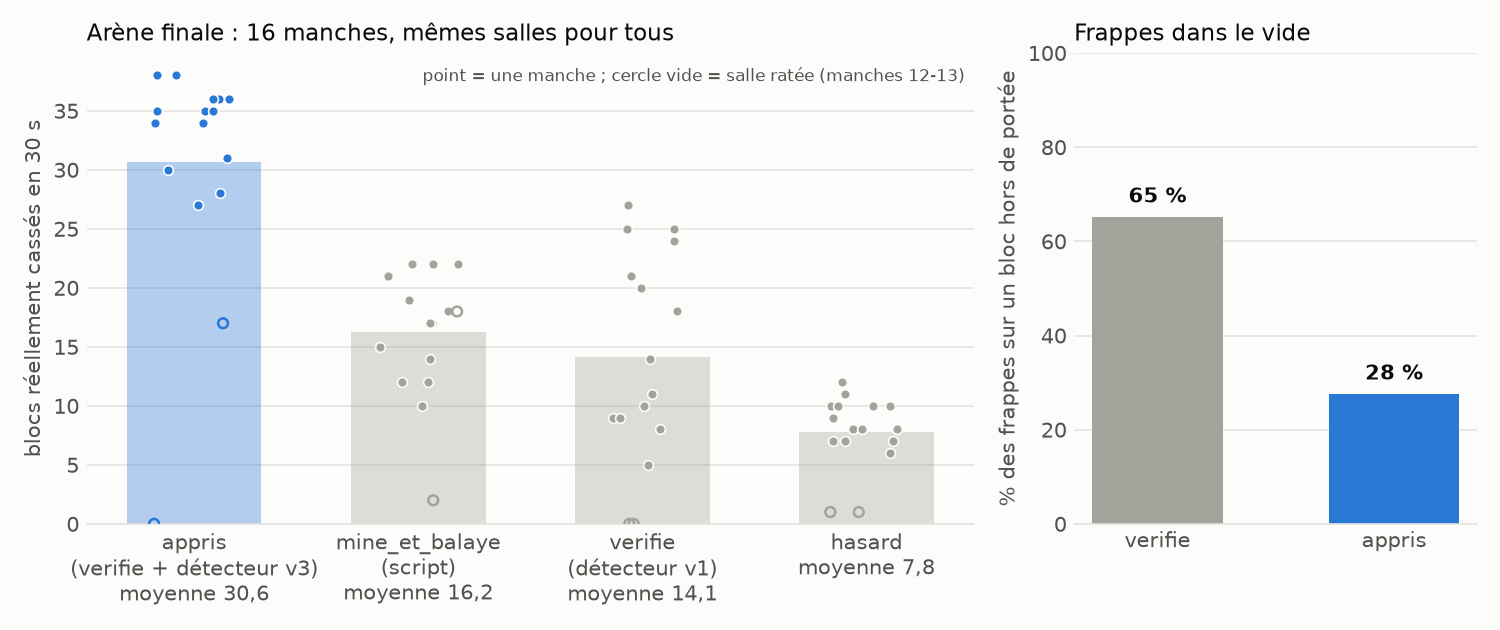
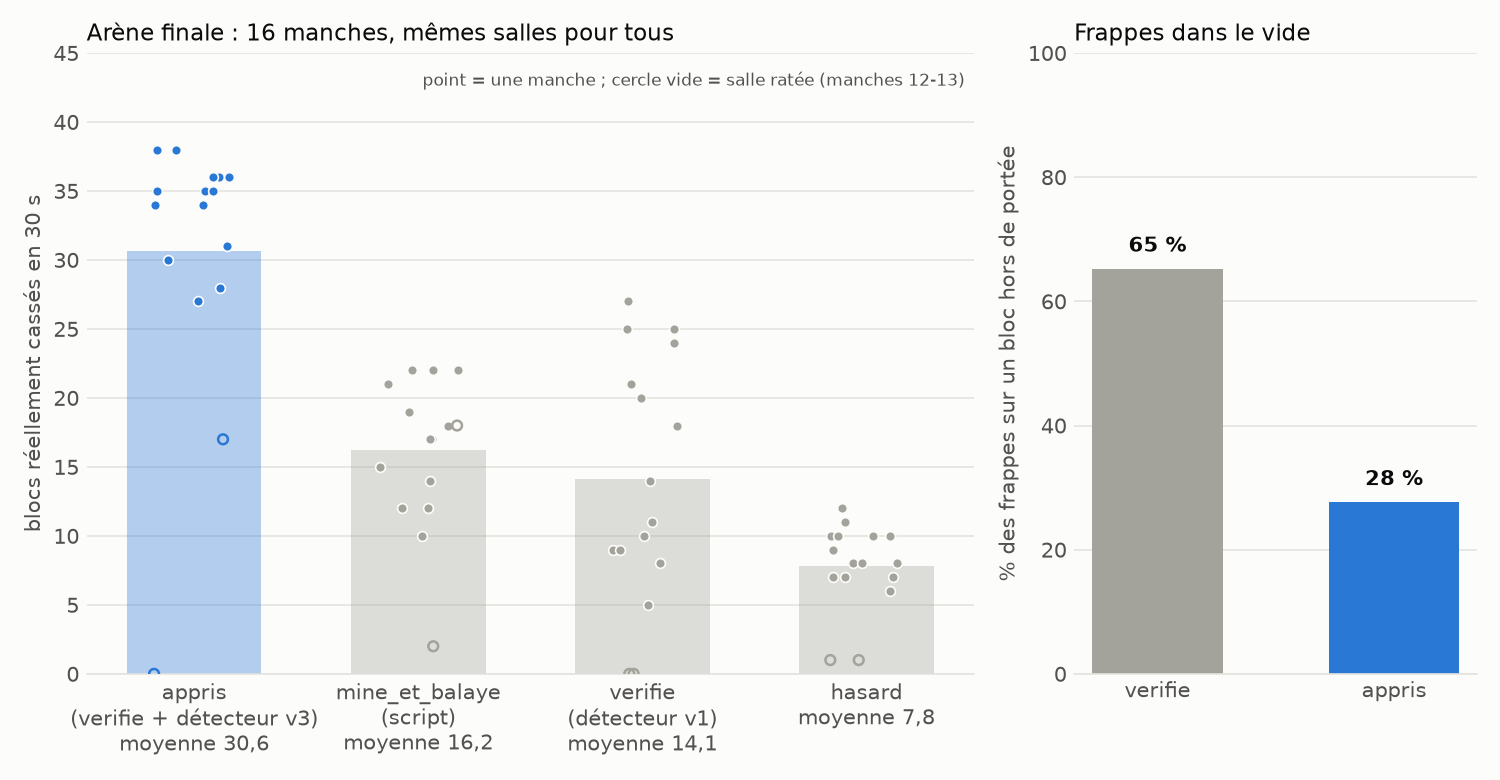
Figure de l'arène : axe des blocs étendu à 45

diff --git a/scripts/figure_arene.py b/scripts/figure_arene.py
@@ -46,7 +46,7 @@ def main():
     ordre = ["appris", "mine_et_balaye", "verifie", "hasard"]
     plt.rcParams.update({"font.size": 10, "text.color": ENCRE, "axes.labelcolor": ENCRE2,
                          "xtick.color": ENCRE2, "ytick.color": ENCRE2})
-    fig, (a, b) = plt.subplots(1, 2, figsize=(10, 4.2), gridspec_kw={"width_ratios": [2.2, 1]},
+    fig, (a, b) = plt.subplots(1, 2, figsize=(10, 5.2), gridspec_kw={"width_ratios": [2.2, 1]},
                                facecolor=FOND)
     rng = np.random.default_rng(0)
     for i, nom in enumerate(ordre):
@@ -61,6 +61,8 @@ def main():
     a.set_xticks(range(len(ordre)), [f"{NOMS[n]}\nmoyenne {np.mean(scores[n]):.1f}".replace(".", ",")
                                      for n in ordre])
     a.set_ylabel("blocs réellement cassés en 30 s")
+    a.set_ylim(0, 45)
+    a.set_yticks(range(0, 46, 5))
     a.set_title("Arène finale : 16 manches, mêmes salles pour tous", loc="left", fontsize=11)
     a.text(0.99, 0.97, "point = une manche ; cercle vide = salle ratée (manches 12-13)",
            transform=a.transAxes, ha="right", va="top", fontsize=8, color=ENCRE2)
